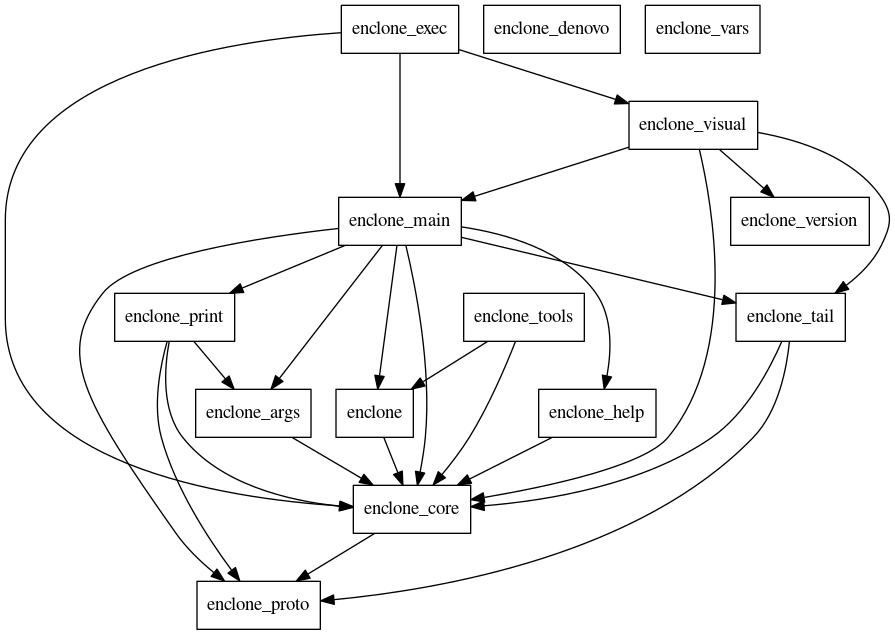
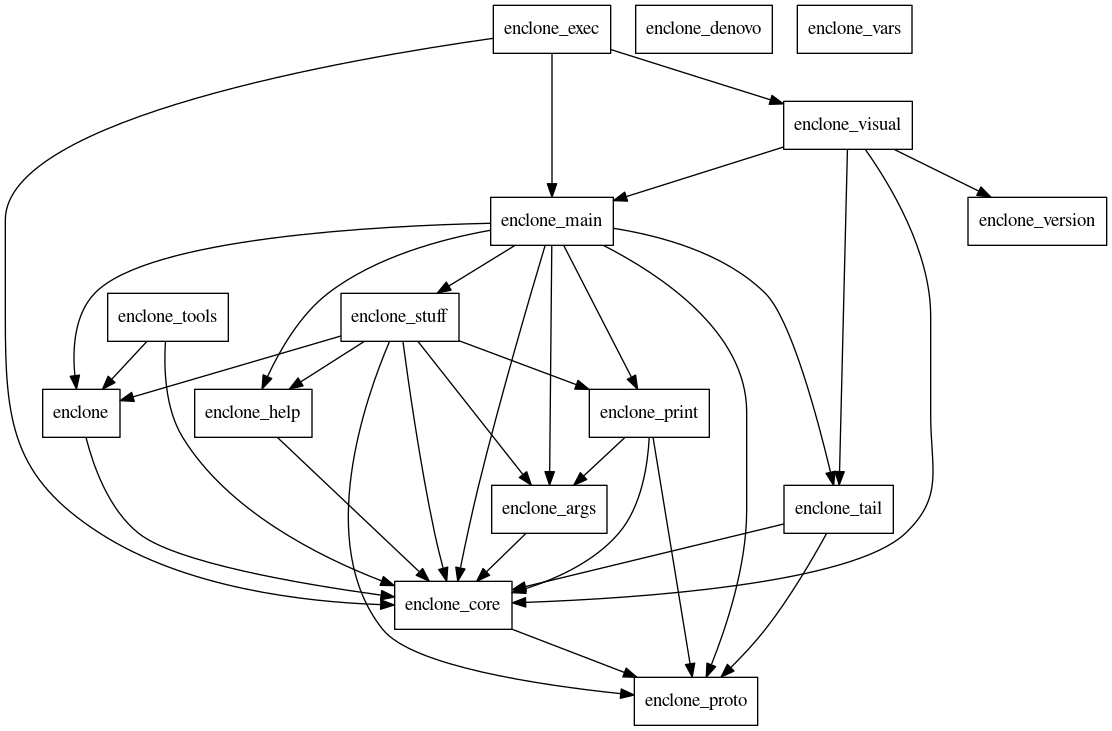
work in progress

diff --git a/enclone_main/src/main_enclone.rs b/enclone_main/src/main_enclone.rs
@@ -6,14 +6,12 @@ use self::refx::{make_vdj_ref_data_core, RefData};
 use crate::blacklist::profiling_blacklist;
 use crate::determine_ref::determine_ref;
 use crate::disintegrate::disintegrate_onesies;
-use crate::fcell::filter_by_fcell;
 use crate::filter_umi::filter_umi;
 use crate::flag_defective::flag_defective;
 use crate::inconsistent::test_vdj_gex_inconsistent;
 use crate::populate_features::populate_features;
 use crate::sec_mem::test_sec_mem;
 use crate::setup::{critical_args, setup};
-use crate::some_filters::some_filters;
 use crate::stop::{main_enclone_stop, EncloneExacts, EncloneIntermediates};
 use crate::vars::match_vars;
 use debruijn::dna_string::DnaString;
@@ -34,6 +32,8 @@ use enclone_core::cell_color::CellColor;
 use enclone_core::defs::{CloneInfo, EncloneControl, GexInfo, TigData};
 use enclone_core::version_string;
 use enclone_print::loupe::make_donor_refs;
+use enclone_stuff::fcell::filter_by_fcell;
+use enclone_stuff::some_filters::some_filters;
 use equiv::EquivRel;
 use io_utils::{fwriteln, open_for_read, open_userfile_for_read, path_exists};
 use itertools::Itertools;

diff --git a/enclone_stuff/src/some_filters.rs b/enclone_stuff/src/some_filters.rs
@@ -1,11 +1,11 @@
 // Copyright (c) 2021 10X Genomics, Inc. All rights reserved.
 
 use crate::doublets::delete_doublets;
+use crate::merge_onesies::merge_onesies;
+use crate::split_orbits::split_orbits;
 use crate::weak_chains::weak_chains;
 use enclone_core::defs::{CloneInfo, EncloneControl, ExactClonotype};
 use enclone_print::define_mat::define_mat;
-use enclone_stuff::merge_onesies::merge_onesies;
-use enclone_stuff::split_orbits::split_orbits;
 use equiv::EquivRel;
 use rayon::prelude::*;
 use std::collections::{HashMap, HashSet};

diff --git a/enclone_main/src/lib.rs b/enclone_main/src/lib.rs
@@ -3,8 +3,6 @@
 pub mod blacklist;
 pub mod determine_ref;
 pub mod disintegrate;
-pub mod doublets;
-pub mod fcell;
 pub mod filter_umi;
 pub mod flag_defective;
 pub mod inconsistent;
@@ -13,11 +11,9 @@ pub mod opt_d_val;
 pub mod populate_features;
 pub mod sec_mem;
 pub mod setup;
-pub mod some_filters;
 pub mod stop;
 pub mod subset;
 pub mod vars;
-pub mod weak_chains;
 
 use std::sync::atomic::AtomicBool;
 

diff --git a/enclone_stuff/src/lib.rs b/enclone_stuff/src/lib.rs
@@ -1,4 +1,8 @@
 // Copyright (c) 2021 10x Genomics, Inc. All rights reserved.
 
+pub mod doublets;
+pub mod fcell;
 pub mod merge_onesies;
+pub mod some_filters;
 pub mod split_orbits;
+pub mod weak_chains;
